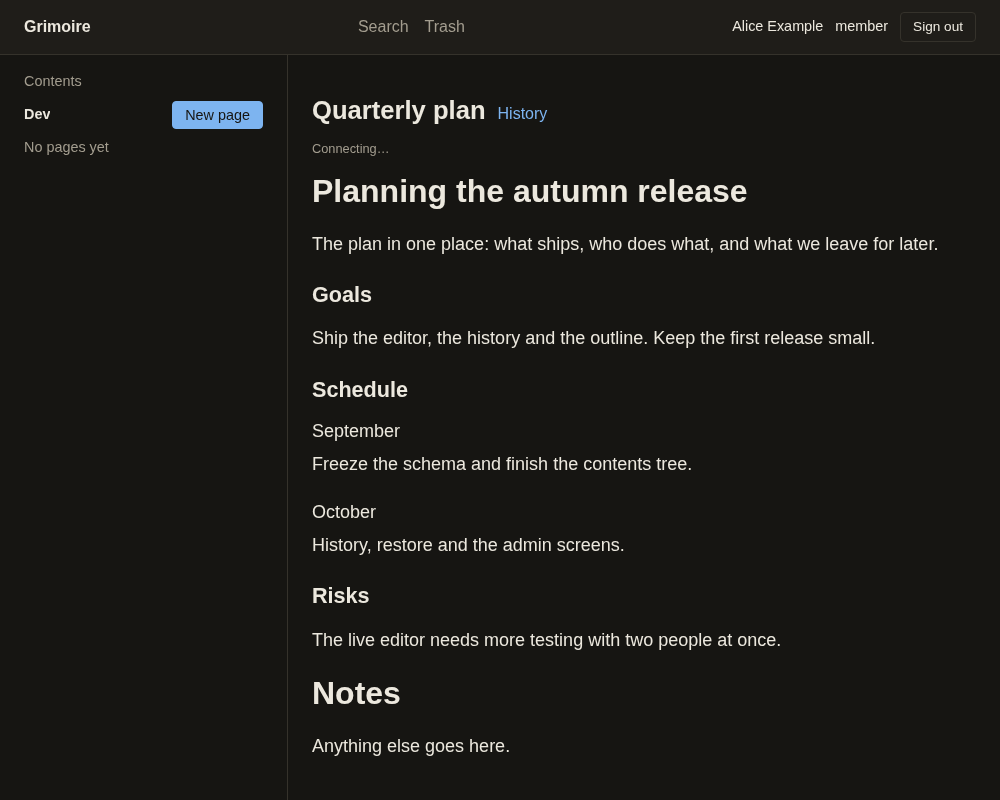
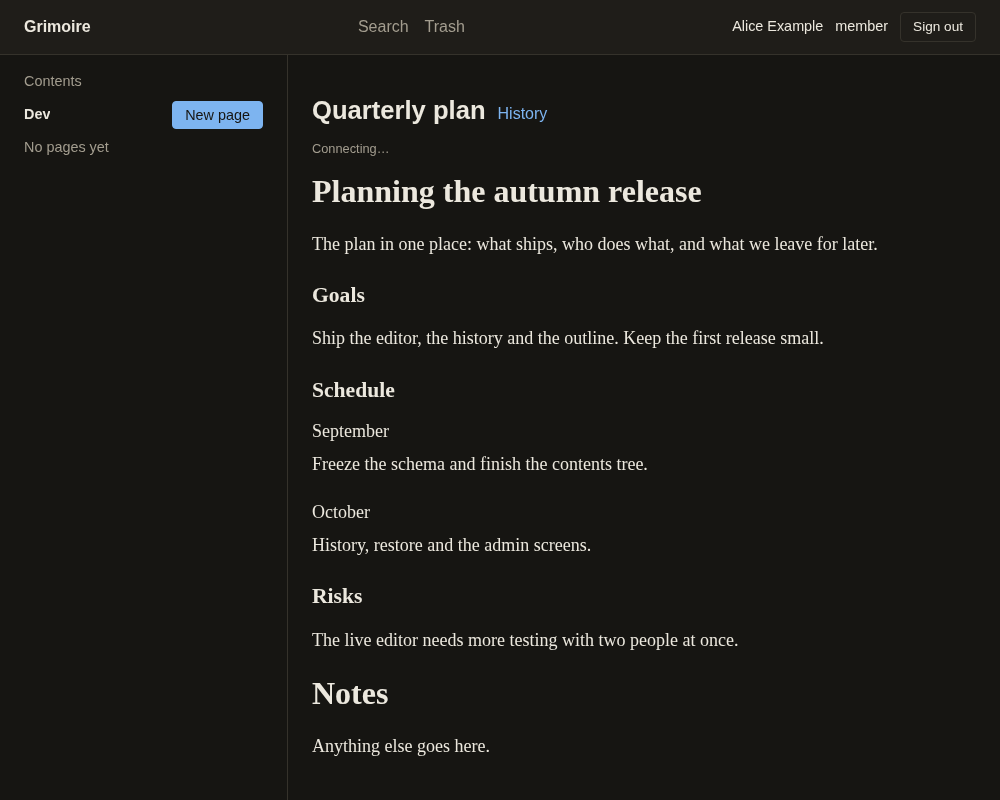
fix(web): the outline goes to the clicked heading even if the page moved; shots keep the reading font

diff --git a/apps/web/src/outline/index.tsx b/apps/web/src/outline/index.tsx
@@ -32,7 +32,7 @@ const NOT_TEXT = '.ProseMirror-yjs-cursor, .ProseMirror-widget, .cursor-label';
 function textOf(element: HTMLElement): string {
   const copy = element.cloneNode(true) as HTMLElement;
   copy.querySelectorAll(NOT_TEXT).forEach((extra) => { extra.remove(); });
-  return (copy.textContent ?? '').replace(/\s+/gu, ' ').trim();
+  return (copy.textContent ?? '').replace(/[\s\u200b-\u200d\u2060\ufeff]+/gu, ' ').trim();
 }
 
 /** The editor's element in the page screen's layout (page.css), or null when there is no page. */
@@ -109,11 +109,20 @@ export function Outline() {
     };
   }, [wide]);
 
-  /** Puts the cursor at the start of the heading and brings it into view. The document is read again at the click: the list may be a moment behind. */
-  const go = useCallback((index: number): void => {
+  /**
+   * Puts the cursor at the start of the heading and brings it into view. The document is read again at the click, because the list may be a moment behind; the heading
+   * is the one at the same place if it still has the clicked text and level, else the nearest one that has, else none (nothing moves rather than going somewhere else).
+   */
+  const go = useCallback((index: number, clicked: Entry): void => {
     const root = editorElement();
-    const target = root === null ? undefined : headingsOf(root)[index]?.element;
-    if (root === null || target === undefined) return;
+    if (root === null) return;
+    const fresh = headingsOf(root);
+    const same = (i: number): boolean => fresh[i]?.entry.text === clicked.text && fresh[i].entry.level === clicked.level;
+    let at = -1;
+    if (same(index)) at = index;
+    else for (let distance = 1; distance < fresh.length && at < 0; distance += 1) at = same(index - distance) ? index - distance : same(index + distance) ? index + distance : -1;
+    const target = fresh[at]?.element;
+    if (target === undefined) return;
     const surface = root.querySelector<HTMLElement>('.ProseMirror') ?? root;
     surface.focus({ preventScroll: true });
     window.getSelection()?.collapse(target, 0);
@@ -148,7 +157,7 @@ export function Outline() {
               onFocus={() => { setStop(i); }}
               onClick={(event) => {
                 event.preventDefault();
-                go(i);
+                go(i, entry);
               }}
             >
               {entry.text}

diff --git a/apps/web/test/outline/outline.test.tsx b/apps/web/test/outline/outline.test.tsx
@@ -147,10 +147,11 @@ describe('the outline of a page', () => {
     const widget = (name: string): HTMLElement => {
       const caret = document.createElement('span');
       caret.className = 'ProseMirror-yjs-cursor cursor';
+      caret.append('\u2060'); // the caret's two word joiners, as the editor draws it
       const label = document.createElement('div');
       label.className = 'cursor-label';
       label.textContent = name;
-      caret.append(label);
+      caret.append(label, '\u2060');
       return caret;
     };
     editor.querySelectorAll('h2')[0]?.append(widget('Bob Builder'));
@@ -163,6 +164,28 @@ describe('the outline of a page', () => {
     expect(names()).toEqual(['Title', 'Plan', 'Marker']);
     expect(nav().textContent).not.toContain('Bob');
     expect(nav().textContent).not.toContain('Carol');
+  });
+
+  it('goes to the heading that was clicked even when the document changed above it since the list was drawn', async () => {
+    const { editor } = renderPage([[1, 'A'], [2, 'B'], [1, 'C']]);
+    const scrolls: string[] = [];
+    for (const heading of Array.from(editor.children) as HTMLElement[]) heading.scrollIntoView = () => { scrolls.push(heading.textContent ?? ''); };
+    const added = document.createElement('h2');
+    added.textContent = 'Added above';
+    added.scrollIntoView = () => { scrolls.push('Added above'); };
+    editor.insertBefore(added, editor.firstChild); // the list still shows A, B, C: the change is not read yet
+    await userEvent.click(screen.getByRole('link', { name: 'C' }));
+    expect(scrolls).toEqual(['C']);
+    expect(window.getSelection()?.anchorNode?.parentElement?.textContent ?? window.getSelection()?.anchorNode?.textContent).toContain('C');
+  });
+
+  it('does nothing, rather than go somewhere else, when the clicked heading is no longer there', async () => {
+    const { editor } = renderPage([[1, 'A'], [1, 'B']]);
+    const scroll = vi.fn();
+    for (const heading of Array.from(editor.children) as HTMLElement[]) heading.scrollIntoView = scroll;
+    editor.querySelectorAll('h1')[1]?.remove(); // B is gone, the list has not caught up
+    await userEvent.click(screen.getByRole('link', { name: 'B' }));
+    expect(scroll).not.toHaveBeenCalled();
   });
 
   it('keeps the keyboard focus on the same link when a heading is added before it', async () => {

diff --git a/apps/web/test-e2e/outline/screenshots.spec.ts b/apps/web/test-e2e/outline/screenshots.spec.ts
@@ -4,9 +4,9 @@ import { shots } from '../support/shots';
 import { signInAs } from '../support/sign-in';
 
 // Screenshots of the outline beside a page at 1400 pixels wide, with the current heading marked, and of the same page at 1000 pixels (no outline), light and dark
-// (test-results/shots/M6-T05b/). This machine's default sans-serif is a monospace face, so an installed sans (Liberation Sans) is named for the text, as in the other shots.
+// (test-results/shots/M6-T05b/). This machine's default sans-serif is a monospace face, so an installed sans (Liberation Sans) is named for the interface text only, as in the other shots; the page text keeps the reading font of the design.
 const TASK = 'M6-T05b';
-const SANS = ":root { --font-ui: 'Liberation Sans', Arial, sans-serif; --font-page: 'Liberation Sans', Arial, sans-serif; }";
+const SANS = ":root { --font-ui: 'Liberation Sans', Arial, sans-serif; }"; // the page text keeps its own reading font (--font-page)
 const MARKDOWN = [
   '# Planning the autumn release',
   'The plan in one place: what ships, who does what, and what we leave for later.',
